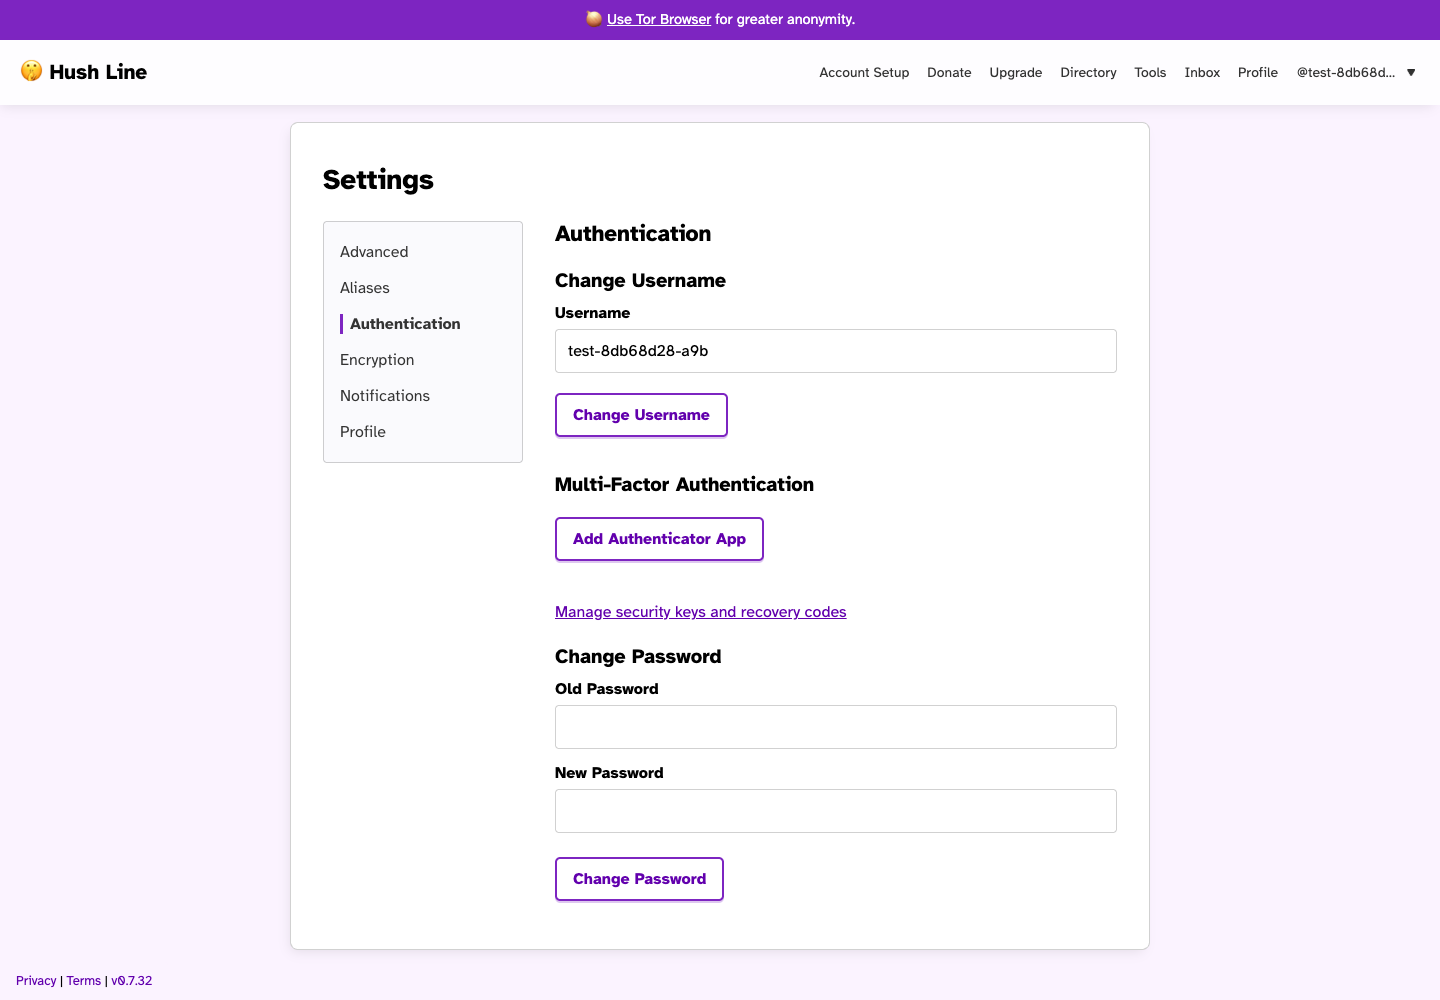
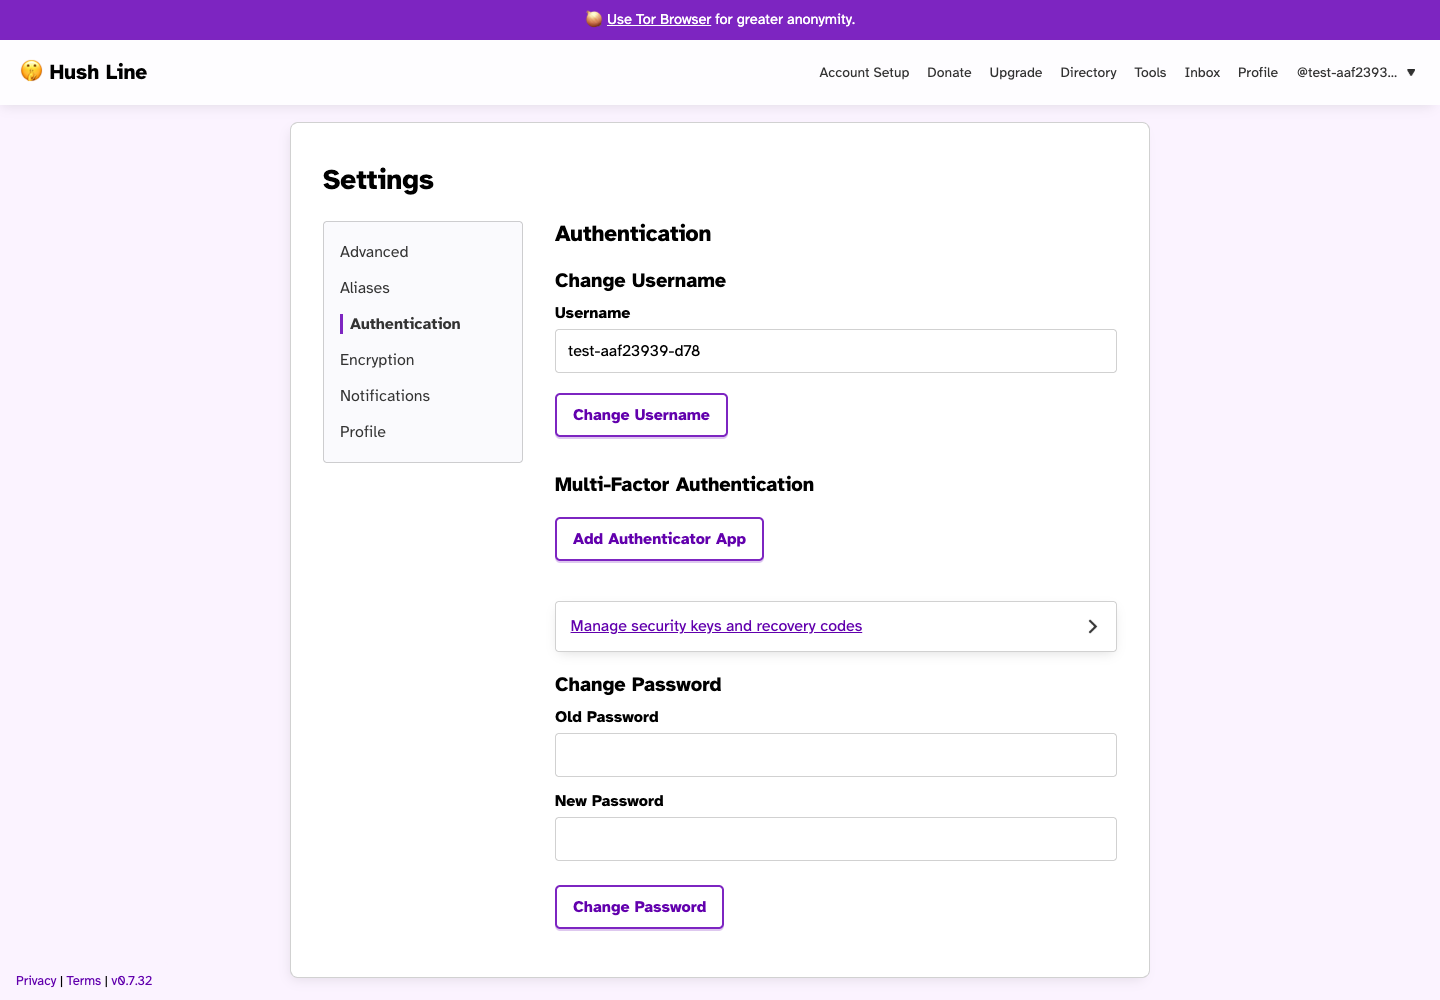
Present authentication management as a drill-in card

diff --git a/hushline/templates/settings/auth.html b/hushline/templates/settings/auth.html
@@ -35,10 +35,17 @@
     </form>
   {% endif %}
 
-  {% if security_keys_available %}
-    <p><a href="{{ url_for('settings.security_keys') }}">Manage security keys and recovery codes</a></p>
-  {% elif user.totp_secret %}
-    <p><a href="{{ url_for('settings.security_keys') }}">Manage authentication and recovery codes</a></p>
+  {% if security_keys_available or user.totp_secret %}
+    <div class="alias-list">
+      <div class="alias-entry">
+        <div>
+          <a href="{{ url_for('settings.security_keys') }}" class="stretched-link">
+            {{ "Manage security keys and recovery codes" if security_keys_available else "Manage authentication and recovery codes" }}
+          </a>
+        </div>
+        <div class="icon chevron" aria-hidden="true"></div>
+      </div>
+    </div>
   {% endif %}
 
   <h4>Change Password</h4>

diff --git a/tests/test_settings_security_keys.py b/tests/test_settings_security_keys.py
@@ -334,6 +334,10 @@ def test_recovery_management_remains_available_without_advertising_unavailable_k
     db.session.commit()
     settings = client.get(url_for("settings.auth"))
     assert "Manage authentication and recovery codes" in settings.text
+    card = BeautifulSoup(settings.text, "html.parser").select_one(".alias-entry")
+    assert card is not None
+    assert card.select_one("a.stretched-link") is not None
+    assert card.select_one('.icon.chevron[aria-hidden="true"]') is not None
     assert "security keys" not in settings.text.lower()
     page = client.get(url_for("settings.security_keys"))
     assert page.status_code == 200
@@ -349,6 +353,12 @@ def test_available_security_keys_show_actions_without_backend_or_empty_status(
 ) -> None:
     settings = client.get(url_for("settings.auth"))
     assert "Manage security keys and recovery codes" in settings.text
+    card = BeautifulSoup(settings.text, "html.parser").select_one(".alias-entry")
+    assert card is not None
+    link = card.select_one("a.stretched-link")
+    assert link is not None
+    assert link["href"] == url_for("settings.security_keys")
+    assert card.select_one('.icon.chevron[aria-hidden="true"]') is not None
     _authorize(client, user_password)
     page = client.get(url_for("settings.security_keys"))
     assert 'id="security-key-enrollment-form"' in page.text
